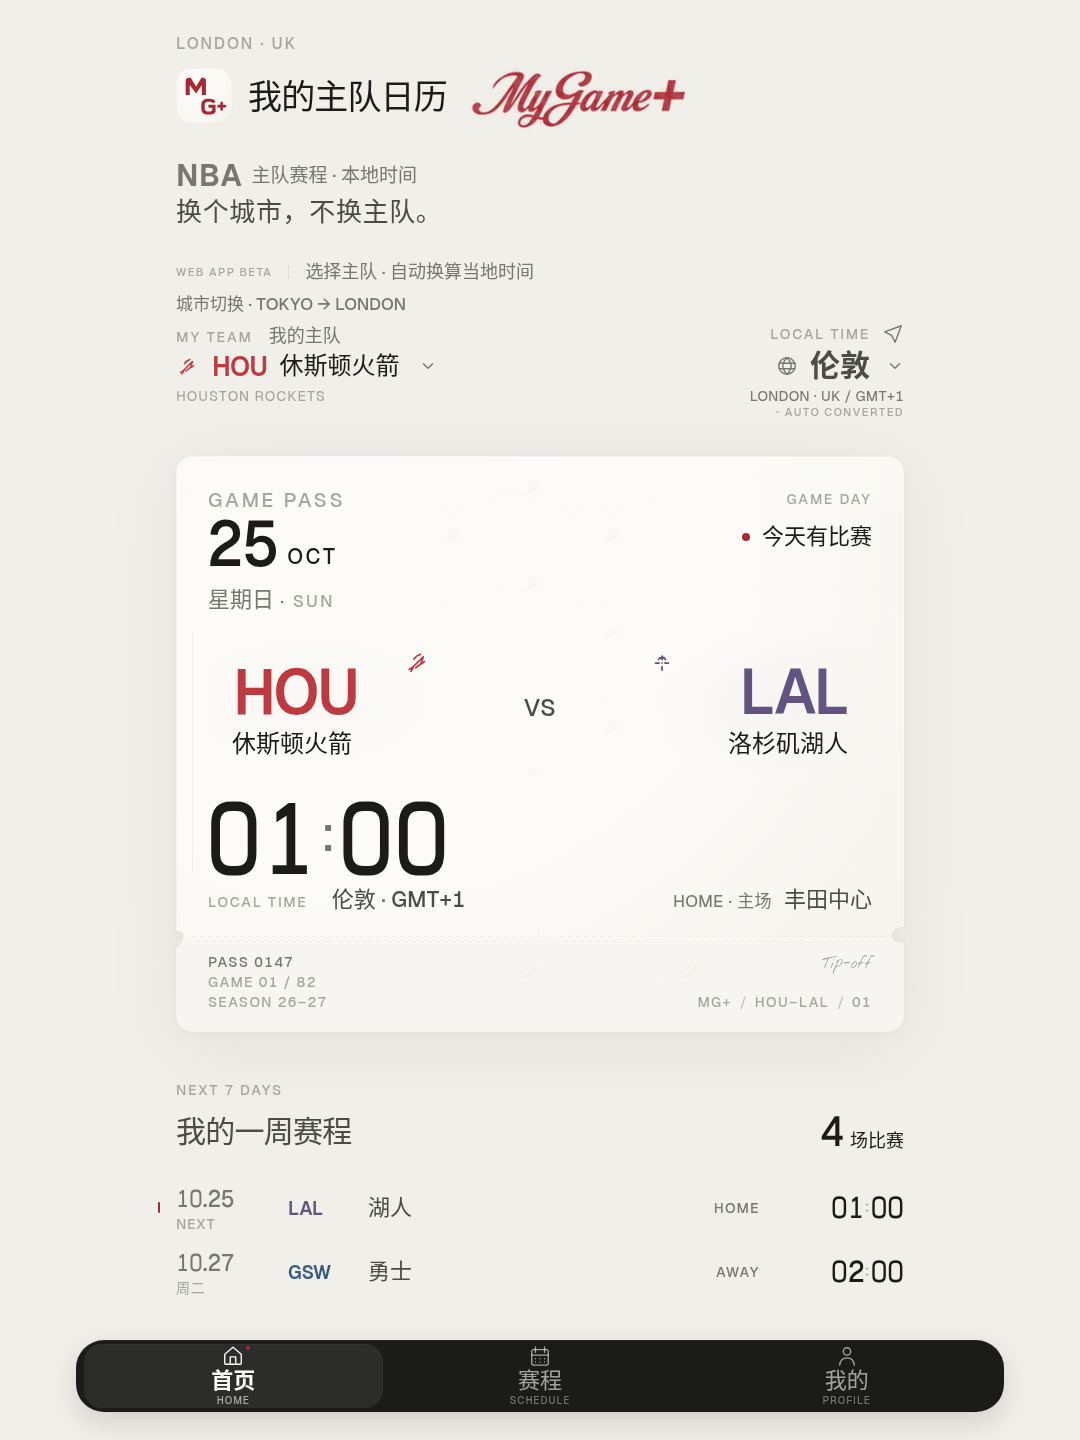
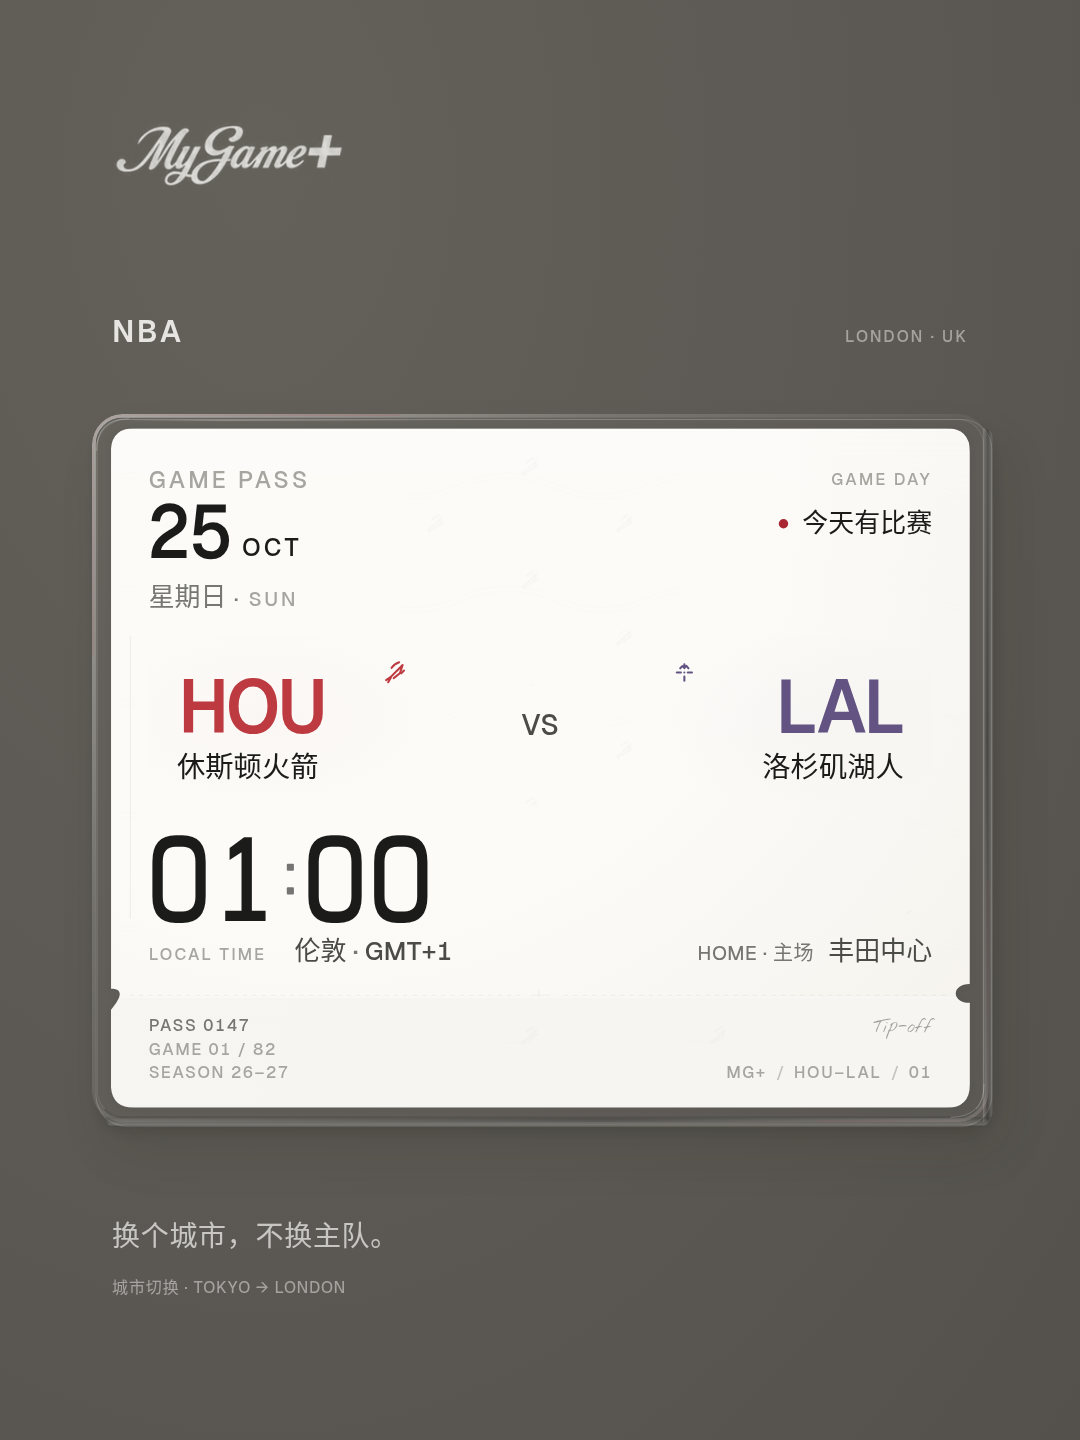
Create MyGame+ V2.7 encased pass artifacts

diff --git a/src/styles/encased-pass.css b/src/styles/encased-pass.css
@@ -1,0 +1,31 @@
+/* V2.7 presentation: matte environment → hard clear enclosure → unchanged paper Pass. */
+.encased-artifact {
+ --artifact-scale:1.18;
+ position:relative;width:1080px;height:1440px;margin:0;overflow:hidden;isolation:isolate;
+ background:radial-gradient(ellipse at var(--light-source-x) var(--light-source-y),var(--artifact-environment-lit),var(--artifact-environment) 62%,var(--artifact-environment-rest));
+ color:var(--artifact-ink);
+}
+.artifact-brand-signature { position:absolute;left:112px;top:116px;width:236px;height:74px;background:var(--artifact-brand-ink);mask:url('/brand/mygame-plus.png') center/contain no-repeat; }
+.artifact-context { position:absolute;left:112px;right:112px;top:312px;height:40px;display:flex;align-items:baseline;justify-content:space-between; }
+.artifact-nba { font-size:30px;line-height:40px;font-weight:600;letter-spacing:.10em;color:var(--artifact-ink); }
+.artifact-city { font-size:16px;line-height:24px;font-weight:500;letter-spacing:.13em;color:var(--artifact-muted); }
+.artifact-display { position:absolute;left:92px;top:414px;width:896.8px;height:708px; }
+.artifact-display>.encased-pass { transform:scale(var(--artifact-scale));transform-origin:top left; }
+.artifact-caption { position:absolute;left:112px;top:1216px;width:856px;height:40px;font-size:28px;line-height:40px;font-weight:500;letter-spacing:.025em;color:var(--artifact-ink-secondary); }
+.artifact-city-state { position:absolute;left:112px;top:1276px;width:856px;height:24px;margin:0;font-size:16px;line-height:24px;font-weight:450;letter-spacing:.055em;color:var(--artifact-muted); }
+.encased-pass { position:relative;width:calc(var(--enclosure-width)*1px);height:calc(var(--enclosure-height)*1px);border-radius:var(--enclosure-radius);isolation:isolate; }
+.slab-rear,.slab-back-plane,.slab-front-bevel,.slab-inner-seam,.slab-refraction,.slab-corner-optics,.slab-light-return { position:absolute;inset:0;pointer-events:none; }
+.slab-rear { transform:translate(3px,4px);border-radius:inherit;background:var(--acrylic-rear);border:1px solid var(--acrylic-rear-edge);box-shadow:var(--slab-display-shadow); }
+.slab-side-right { position:absolute;right:-3px;top:12px;bottom:0;width:8px;border-radius:0 20px 24px 0;background:var(--acrylic-side-material);pointer-events:none; }
+.slab-side-bottom { position:absolute;left:12px;right:-1px;bottom:-4px;height:8px;border-radius:0 0 24px 20px;background:var(--acrylic-bottom-material);pointer-events:none; }
+.slab-back-plane { border-radius:inherit;background:var(--acrylic-clear-plane); }
+.encased-ticket-slot { color:var(--text-primary);position:absolute;left:var(--enclosure-gap-x);right:var(--enclosure-gap-x);top:var(--enclosure-gap-y);bottom:var(--enclosure-gap-y); }
+.encased-pass .encased-ticket-slot>.personal-pass,.encased-pass .encased-ticket-slot>.pass { position:absolute;left:0;top:0;width:100%;height:100%;margin:0;filter:var(--enclosed-paper-contact); }
+.slab-front-bevel { border-radius:inherit;padding:3px;background:var(--acrylic-bevel-material);mask:linear-gradient(white 0 0) content-box,linear-gradient(white 0 0);mask-composite:exclude; }
+.slab-inner-seam { inset:4px;border-radius:22px;border:1px solid var(--acrylic-inner-edge);border-bottom-color:var(--acrylic-inner-rest); }
+.slab-refraction,.slab-corner-optics { width:100%;height:100%;overflow:visible;fill:none; }
+.slab-refraction { color:var(--acrylic-team-refraction);stroke-width:1.6;stroke-linecap:round;stroke-linejoin:round; }
+.slab-corner-optics { stroke:var(--acrylic-corner-highlight);stroke-width:.65;stroke-linecap:round; }
+.slab-light-return { inset:5px 28px auto 28px;height:1px;background:linear-gradient(90deg,transparent,var(--acrylic-top-return) 12%,transparent 38%); }
+/* The source UI remains in the export document only to initialize the approved ticket. */
+main.encased-export-mode> :not(.encased-artifact):not(svg) { display:none!important; }

diff --git a/src/styles/color-material.css b/src/styles/color-material.css
@@ -158,3 +158,32 @@
 
 @property --pass-surface { syntax:"<color>";inherits:true;initial-value:#faf8f4; }
 @property --temperature-intensity { syntax:"<number>";inherits:true;initial-value:.65; }
+
+/* V2.7 artifact-only materials. Ordinary App canvas and Pass paint are unchanged. */
+:root {
+ --artifact-environment:#5b5853;
+ --artifact-environment-lit:#64615b;
+ --artifact-environment-rest:#54514c;
+ --artifact-ink:color-mix(in srgb,var(--pass-highlight) 86%,transparent);
+ --artifact-ink-secondary:color-mix(in srgb,var(--pass-highlight) 68%,transparent);
+ --artifact-muted:color-mix(in srgb,var(--pass-highlight) 46%,transparent);
+ --artifact-brand-ink:color-mix(in srgb,var(--pass-highlight) 82%,transparent);
+ --acrylic-clear-plane:rgba(252,251,248,.012);
+ --acrylic-rear:rgba(252,251,248,.018);
+ --acrylic-rear-edge:rgba(252,251,248,.13);
+ --acrylic-upper-edge:rgba(252,251,248,.48);
+ --acrylic-mid-edge:rgba(252,251,248,.16);
+ --acrylic-lower-edge:rgba(27,28,26,.16);
+ --acrylic-inner-edge:rgba(252,251,248,.10);
+ --acrylic-inner-rest:rgba(27,28,26,.12);
+ --acrylic-corner-highlight:rgba(252,251,248,.32);
+ --acrylic-top-return:rgba(252,251,248,.26);
+ --acrylic-side-light:rgba(252,251,248,.20);
+ --acrylic-side-dark:rgba(27,28,26,.20);
+ --slab-display-shadow:0 4px 10px rgba(26,26,23,.14),10px 22px 42px rgba(26,26,23,.10);
+ --enclosed-paper-contact:drop-shadow(0 1px 3px rgba(26,26,23,.07));
+ --acrylic-bevel-material:linear-gradient(135deg,var(--acrylic-upper-edge),var(--acrylic-mid-edge) 32%,var(--acrylic-lower-edge) 76%,var(--acrylic-mid-edge));
+ --acrylic-side-material:linear-gradient(90deg,var(--acrylic-side-light),var(--acrylic-side-dark) 48%,var(--acrylic-mid-edge));
+ --acrylic-bottom-material:linear-gradient(180deg,var(--acrylic-side-dark),var(--acrylic-mid-edge) 76%,var(--acrylic-inner-rest));
+}
+.encased-pass { --acrylic-team-refraction:color-mix(in srgb,var(--team-accent) 14%,transparent); }

diff --git a/src/components/EncasedPass.tsx b/src/components/EncasedPass.tsx
@@ -1,0 +1,22 @@
+import {useId,type CSSProperties,type ReactNode} from 'react';
+import {teamMaterialProperties,type TeamIdentity} from '@/data/teamIdentities';
+import {PASS_ENCLOSURE,enclosureProperties} from '@/lib/passEnclosure';
+
+/** Optical casing is a separate layer; it never paints a filter over the ticket face. */
+export function EncasedPass({team,children}:{team:TeamIdentity;children:ReactNode}){
+ const gradient=`enclosure-${useId().replaceAll(':','')}`;
+ return <div className="encased-pass" data-enclosure-team={team.code} data-presentation="front-sidewall" style={{...teamMaterialProperties(team),...enclosureProperties()} as CSSProperties}>
+  <span className="slab-rear" aria-hidden="true"/>
+  <span className="slab-side-right" aria-hidden="true"/><span className="slab-side-bottom" aria-hidden="true"/>
+  <span className="slab-back-plane" aria-hidden="true"/>
+  <div className="encased-ticket-slot">{children}</div>
+  <span className="slab-front-bevel" aria-hidden="true"/>
+  <span className="slab-inner-seam" aria-hidden="true"/>
+  <svg className="slab-refraction" viewBox={`0 0 ${PASS_ENCLOSURE.width} ${PASS_ENCLOSURE.height}`} fill="none" aria-hidden="true">
+   <defs><linearGradient id={gradient} x1="0" y1="0" x2="760" y2="600" gradientUnits="userSpaceOnUse"><stop offset="0" stopColor="currentColor" stopOpacity=".4"/><stop offset=".18" stopColor="currentColor"/><stop offset=".55" stopColor="currentColor" stopOpacity=".12"/><stop offset=".84" stopColor="currentColor" stopOpacity=".75"/><stop offset="1" stopColor="currentColor" stopOpacity=".25"/></linearGradient></defs>
+   {PASS_ENCLOSURE.refraction.map(d=><path key={d} d={d} stroke={`url(#${gradient})`}/>)}
+  </svg>
+  <svg className="slab-corner-optics" viewBox="0 0 760 600" fill="none" aria-hidden="true"><path d="M4 31Q4 4 31 4M756 568Q756 596 728 596"/></svg>
+  <span className="slab-light-return" aria-hidden="true"/>
+ </div>;
+}

diff --git a/tests/encased-artifact.test.ts b/tests/encased-artifact.test.ts
@@ -1,0 +1,25 @@
+import test from 'node:test';
+import assert from 'node:assert/strict';
+import {createElement} from 'react';
+import {renderToStaticMarkup} from 'react-dom/server';
+import {readFile} from 'node:fs/promises';
+import {PassShareCard} from '../src/components/PassShareCard';
+import {createPersonalPass} from '../src/lib/personalPass';
+import {DEMO_NOW,mockGames} from '../src/data/mockGames';
+
+test('Encased share composition retains one complete functional Pass across the lifecycle',()=>{
+ for(const instant of ['2026-10-01T00:00:00Z',DEMO_NOW,'2026-10-25T05:00:00Z']){
+  const pass=createPersonalPass({passId:'0147',teamCode:'HOU',game:mockGames[0],games:mockGames,city:'东京',timezone:'Asia/Tokyo',now:new Date(instant)});
+  const html=renderToStaticMarkup(createElement(PassShareCard,{pass}));
+  assert.equal((html.match(/data-dna="MG-DNA-1"/g)??[]).length,1);
+  assert.ok(html.includes('data-dna="bridge"'));assert.ok(html.includes('data-dna="spine"'));
+  assert.ok(html.includes('PASS</span> 0147'));assert.ok(html.includes('GAME</span> 01 / 82'));assert.ok(html.includes('SEASON</span> 26–27'));
+  assert.ok(html.includes(`data-pass-status="${pass.status.phase}"`));
+  assert.equal((html.match(/class="emotion-mark"/g)??[]).length,1);
+  assert.ok(html.includes('encased-ticket-slot'));assert.ok(html.includes('data-enclosure-team="HOU"'));
+  assert.doesNotMatch(html,/SCHEDULE|PROFILE|GEM MINT|CLAIM|rarity/);
+ }
+});
+test('Artifact reuses the approved brand signature asset without redrawing it',async()=>{
+ assert.ok((await readFile('public/brand/mygame-plus.png')).equals(await readFile('design/promo/wordmark.png')));
+});

diff --git a/src/components/PassShareCard.tsx b/src/components/PassShareCard.tsx
@@ -1,7 +1,15 @@
+import type {ReactNode} from 'react';
 import type {PersonalPass} from '@/lib/personalPass';
 import {GamePass} from './GamePass';
+import {EncasedPass} from './EncasedPass';
 
-/** Future 3:4 renderer entry point. No share button, service or alternate ticket template. */
-export function PassShareCard({pass}:{pass:PersonalPass}) {
- return <figure className="pass-share-card" aria-label="MyGame+ 比赛通行证分享画面"><GamePass pass={pass}/></figure>;
+/** Independent 3:4 artifact. The product's navigation and schedule stay in the App. */
+export function PassShareCard({pass,caption,cityLabel,cityState,children}:{pass:PersonalPass;caption?:string;cityLabel?:string;cityState?:string;children?:ReactNode}) {
+ return <figure className="pass-share-card encased-artifact" aria-label="MyGame+ 封装赛事通行证" data-artifact-city={pass.location.city}>
+  <span className="artifact-brand-signature" role="img" aria-label="MyGame+"/>
+  <div className="artifact-context"><span className="artifact-nba">NBA</span><span className="artifact-city" data-artifact-state>{cityLabel??pass.location.city}</span></div>
+  <div className="artifact-display"><EncasedPass team={pass.team}>{children??<GamePass pass={pass}/>}</EncasedPass></div>
+  {caption&&<figcaption className="artifact-caption" data-artifact-state>{caption}</figcaption>}
+  <p className="artifact-city-state" data-artifact-state>{cityState??`${pass.location.city} · ${pass.location.offset}`}</p>
+ </figure>;
 }

diff --git a/design/promo/render-encased-frame.tsx b/design/promo/render-encased-frame.tsx
@@ -1,0 +1,7 @@
+import {renderToStaticMarkup} from 'react-dom/server';
+import {PassShareCard} from '../../src/components/PassShareCard';
+import {createPersonalPass} from '../../src/lib/personalPass';
+import {mockGames,DEMO_NOW} from '../../src/data/mockGames';
+const london=process.argv[2]==='london';
+const pass=createPersonalPass({passId:'0147',teamCode:'HOU',game:mockGames[0],games:mockGames,city:london?'伦敦':'东京',timezone:london?'Europe/London':'Asia/Tokyo',now:new Date(DEMO_NOW)});
+process.stdout.write(renderToStaticMarkup(<PassShareCard pass={pass} cityLabel={london?'LONDON · UK':'TOKYO · JP'} caption={london?'换个城市，不换主队。':'无论在哪，主队准时见。'} cityState={london?'城市切换 · TOKYO → LONDON':'当前城市 · TOKYO'}><div id="encased-ticket-anchor"/></PassShareCard>));

diff --git a/src/lib/passEnclosure.ts b/src/lib/passEnclosure.ts
@@ -1,0 +1,11 @@
+import {PASS_DNA} from './passDNA';
+/** Presentation architecture only: the enclosed Pass retains its own immutable drawing. */
+export const PASS_ENCLOSURE=Object.freeze({
+ width:PASS_DNA.width+32,height:PASS_DNA.height+24,radius:26,
+ slot:Object.freeze({x:16,y:12,width:PASS_DNA.width,height:PASS_DNA.height}),
+ sidewall:Object.freeze({x:3,y:4}),
+ refraction:Object.freeze(['M1 204V30Q1 1 30 1H260','M759 396V570Q759 599 730 599H614']),
+});
+export function enclosureProperties(){
+ return {'--enclosure-width':String(PASS_ENCLOSURE.width),'--enclosure-height':String(PASS_ENCLOSURE.height),'--enclosure-radius':`${PASS_ENCLOSURE.radius}px`,'--enclosure-gap-x':`${PASS_ENCLOSURE.slot.x}px`,'--enclosure-gap-y':`${PASS_ENCLOSURE.slot.y}px`};
+}

diff --git a/src/app/globals.css b/src/app/globals.css
@@ -3,6 +3,7 @@
 @import "../styles/system-island.css";
 @import "../styles/pass-dna.css";
 @import "../styles/pass-app.css";
+@import "../styles/encased-pass.css";
 
 :root {
   --bg-canvas: var(--canvas-base);

diff --git a/docs/encased-pass-artifact.md b/docs/encased-pass-artifact.md
@@ -1,0 +1,78 @@
+# MyGame+ V2.7 — Encased Pass Artifact
+
+This is the current 1080 × 1440 promo/share composition. The App UI, Pass DNA, state engine and season archive rules remain unchanged. The reusable `PassShareCard` now presents the existing `GamePass` inside `EncasedPass`.
+
+## Three physical materials
+
+- **Environment:** mid-depth warm greige, matte, no texture or reflected object. Its very soft luminance falloff follows the existing top-left light source.
+- **Enclosure:** high-transparency hard acrylic, with a 3px optical bevel, a separate rear plane, right/bottom sidewall, fine inner seam, corner light return and a small gap around the paper. There is no face-wide reflection layer or backdrop blur.
+- **Pass:** the existing ivory paper, security printing, blind bridge emboss, punched tear line, main/stub and asymmetric cutout drawing. Its face remains unfiltered.
+
+Material colors live exclusively in semantic tokens in `src/styles/color-material.css`; artifact geometry/styles live in `src/styles/encased-pass.css`. Existing App/pass color tokens are not reassigned.
+
+## Fixed enclosure drawing
+
+`src/lib/passEnclosure.ts` owns the casing drawing, independently of `PASS_DNA`:
+
+| Part | Native units |
+| --- | --- |
+| Original Pass | 728 × 576 |
+| Front casing | 760 × 600, outer radius 26 |
+| Paper slot | x16, y12; 728 × 576 |
+| Visible rear offset | +3 right, +4 bottom |
+| Total physical outline | 763 × 604 |
+
+The front casing is 4.40% wider / 4.17% taller than the Pass. Including its visible thickness, the complete physical outline is 4.81% wider / 4.86% taller, within the 3–5% size budget. Shadow is not counted as physical enclosure size.
+
+Presentation uses **option B: front view plus visible sidewall thickness**. There is no perspective distortion. A uniform 1.18 display scale keeps the original master drawing and print sizes in proportion. The acrylic boundaries/sidewall are optically precise; the paper's separate, softer contact depth is limited to its internal air gap. The external shadow stays broad, low-opacity and close to the object.
+
+## Team edge refraction
+
+Two unequal paths catch team tint at the upper-left and lower-right edges. Their combined length is 29.46% of the rounded enclosure perimeter. A directional opacity gradient varies their strength; the remaining rim stays neutral. The strongest team ink is mixed at 14% before the directional gradient further reduces it. There is no luminous blur.
+
+`EncasedPass` receives the same `TeamIdentity` as the ticket. Changing HOU to LAL changes warm-red refraction to violet-grey without changing casing geometry or recoloring paper. All teams use that same data-driven contract.
+
+## Composition
+
+A small inverse-ivory MyGame+ signature uses the exact approved wordmark silhouette. NBA and the city context lead into the single large artifact. Existing city-specific slogans/state text sit quietly below. Navigation, the weekly programme, Beta strip and selector UI belong to the App, and are absent from the visible artifact.
+
+The only close-reading details are the existing PASS ID, GAME/SEASON collection stack, MG+ serial, bridge, spine, security stock and single emotion annotation. No extra authentication claims or grading fields are introduced.
+
+Tokyo/London share the environment, casing, scale, lighting and paper construction. Only city, city-specific copy, GMT and local-time pixels differ.
+
+## Exact ticket preservation and export
+
+`design/promo/export-encased.cjs` renders the reusable React enclosure/frame, then places the approved promo ticket DOM into its slot. It reuses `design/promo/promo.html` as the ticket source, including its original fonts, materials and initialization. The exporter checks ticket DOM equality, identical font/color/print styles, and unchanged normalized internal coordinates against the source composition. It does not generate a new ticket graphic.
+
+```bash
+npm test
+npm run build
+npm run export:promo
+```
+
+Current outputs:
+
+- `output/douyin/mygame-plus-douyin-01-tokyo.png`
+- `output/douyin/mygame-plus-douyin-02-london.png`
+
+The original `design/promo/export.cjs` remains an internal full-UI reference renderer; running it intentionally replaces these output filenames with the earlier UI composition. `npm run export:promo` is the V2.7 artifact export command.
+
+## Validation
+
+The artifact exporter verifies:
+
+- both PNGs exist, decode fully, are nonempty and exactly 1080 × 1440;
+- no viewport overflow, browser chrome or unintended clipping;
+- all original Pass DOM, identity, timing, record fields and DNA are retained;
+- shell dimensions include the physical sidewall in the 3–5% size budget;
+- refraction covers only 20–35% of the perimeter (measured 29.46%);
+- no acrylic backdrop blur or full-face filter;
+- hiding the casing changes **zero pixels in the paper's interior**;
+- HOU/LAL rim swap changes the optical edge ink while the paper remains pixel-identical;
+- Tokyo/London casing/placement geometry matches exactly, with **zero static pixel differences** outside permitted city/time/copy regions.
+
+30% thumbnails, greyscale, blur, paper-only material comparisons and a true 50% overlay are written under `/tmp/mygame-v2.7-*`. At 30%, the casing silhouette, HOU/LAL, timing and signature remain visible; collection metadata recedes. Material inspection confirms matte environment, hard clear edges, and printed ivory paper.
+
+The unit suite includes preservation of a complete Pass across lifecycle states inside the enclosure, and an exact byte comparison of the copied brand asset. Existing lifecycle, archive and responsive App regressions remain applicable.
+
+Validated for this revision: 33 unit tests, production build, 8 browser App regression groups, and the artifact export checks all passed. The delivered Tokyo PNG is 408,394 bytes and London is 409,938 bytes; both decode at 1080 × 1440.

diff --git a/docs/core-pass-system.md b/docs/core-pass-system.md
@@ -1,5 +1,7 @@
 # MyGame+ V2.4 — Core Pass System
 
+> V2.7 promo/share presentation is documented in [Encased Pass Artifact](encased-pass-artifact.md). The core DNA, state and lifecycle rules below remain unchanged.
+
 The existing UI, team identity packs and V2.3-CM palette remain in place. V2.4 fixes the ticket architecture, replaces hour-threshold status with a schedule-aware lifecycle, and persists each completed personal pass. No archive page, account service, share workflow or NBA API is added.
 
 ## Pass DNA invariants
@@ -74,7 +76,7 @@ The writer reads and merges only the selected team/season, writes snapshots befo
 
 `resolveSeasonMilestone()` supports First Pass, Early Season (10), Halfway (41/82) and Season Complete (82/82). `seasonSummary()` returns ordered archived pass records, user identity, collection progress and milestone for a future `SeasonSummaryCard`. These are data-only: normal tickets gain no milestone badges.
 
-`PassShareCard` is an unlinked, reusable 1080 × 1440 renderer containing the same `GamePass` at the same master size. It supports future NEXT UP / GAME DAY / COLLECTED artifacts without alternate ticket DNA or a share feature. The existing full promo composition remains the current export.
+`PassShareCard` is an unlinked, reusable 1080 × 1440 renderer containing the same `GamePass` at the same master size. It supports future NEXT UP / GAME DAY / COLLECTED artifacts without alternate ticket DNA or a share feature. The current V2.7 promo export wraps this ticket family in an acrylic enclosure; see the artifact guide.
 
 Long-term rules: **game → content; location → local time; team → identity; user → number; state → energy; season → collection.** Time passes; the object remains.
 
@@ -85,7 +87,7 @@ npm test
 npm run build
 npm run start -- --port 4000
 MYGAME_APP_URL=http://127.0.0.1:4000 node design/promo/check-app.cjs
-node design/promo/export.cjs
+npm run export:promo
 ```
 
 `check-app.cjs` covers responsive geometry, team stock, real browser storage, cross-zone date boundaries, all four states/three energy bands, archive catch-up and retained pass selection. `check-material.cjs` reuses that same browser fixture suite with material focus rather than a divergent state model. Unit tests additionally exercise multi-season isolation, corrupt records, snapshot restoration and milestones.
